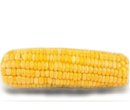
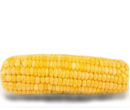
Fix: Move corn graphic down slightly

diff --git a/js/app.js b/js/app.js
@@ -1020,9 +1020,9 @@ document.addEventListener( 'keyup', function( e ) {
 // TODO: Add nextsteps.txt features
 // TODO: Refactor everything
 // TODO: Explain controls
-// TODO: Fix bug where won't float with corn
 // TODO: blurPause() doesn't save timer
 // TODO: Add powerups, ex. time stop, take extra hit powerup,
 // TODO: Add negative powerup that increases enemy speeds
 // TODO: Move corn down slightly
 // TODO: Change sprites to make a unique look
+// TODO: player still moves after blurPause
